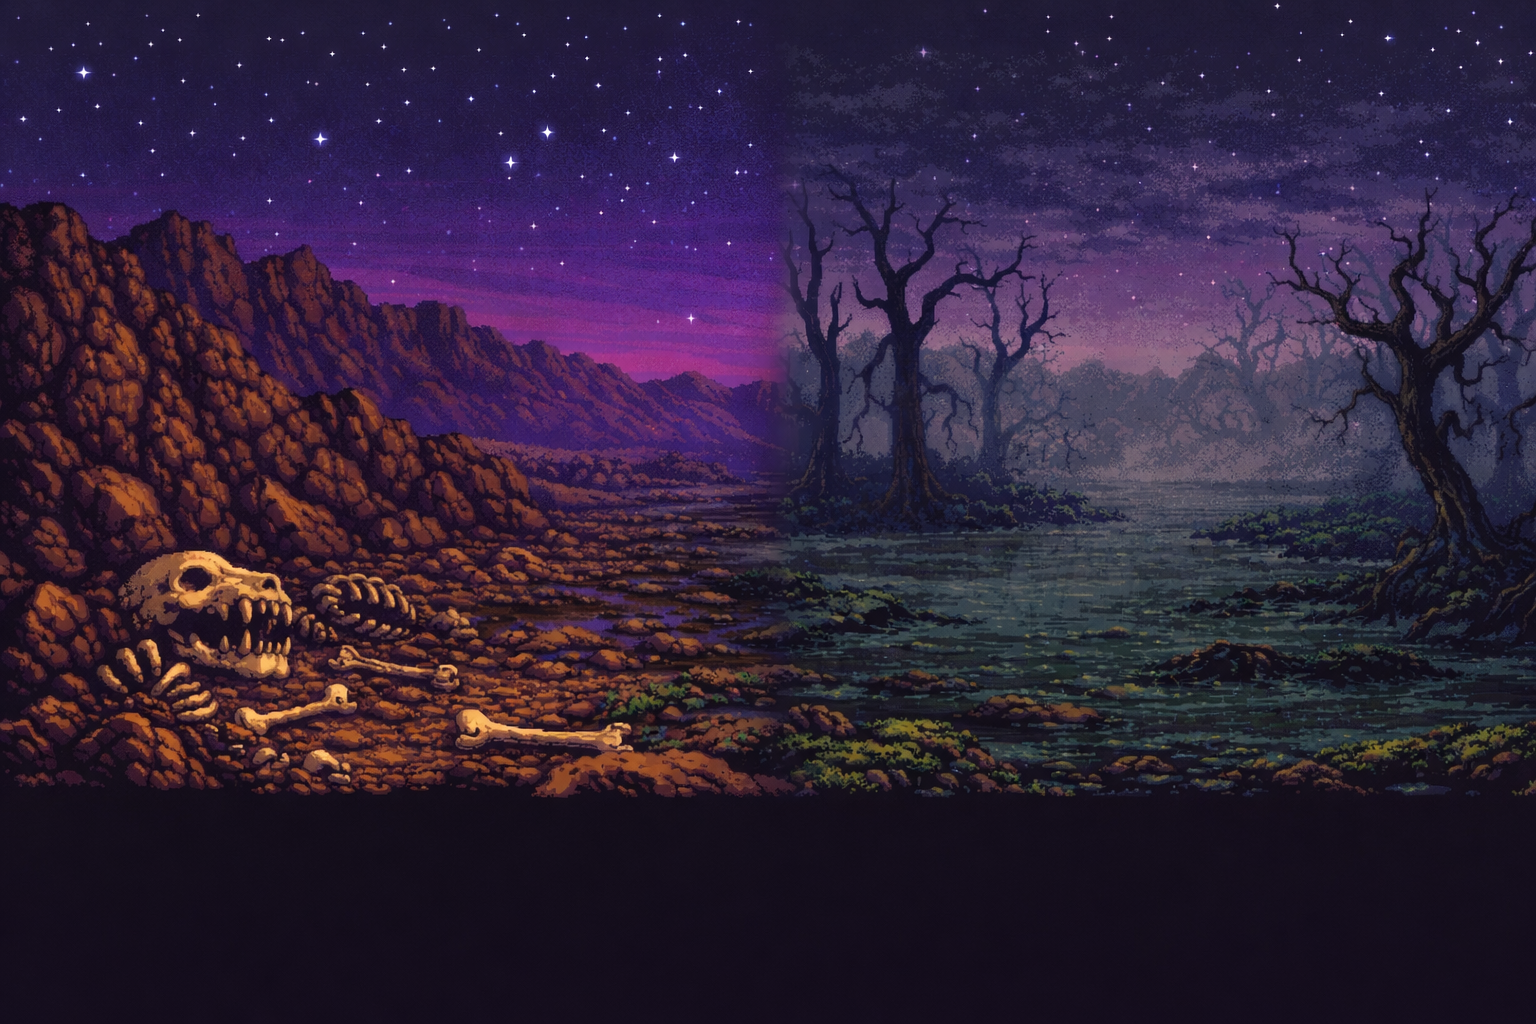
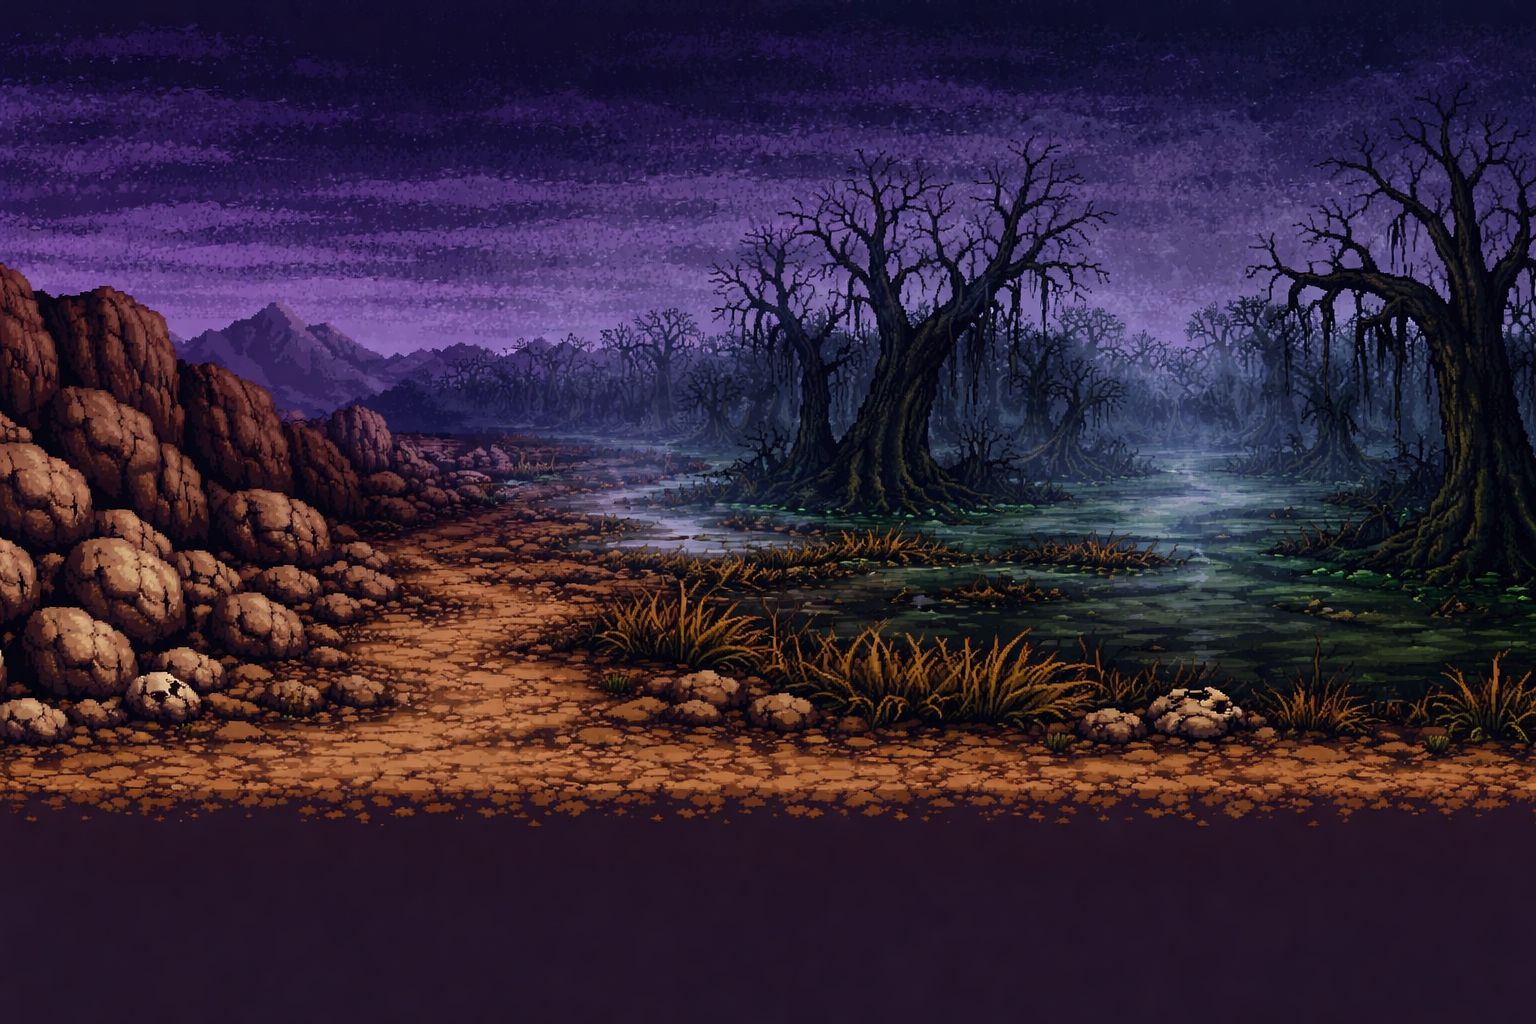
Hercules

diff --git a/public/hercules_12_labors.html b/public/hercules_12_labors.html
@@ -1444,6 +1444,7 @@ function showApp(){
   buildTeacherUnlockGrid();
   loadYTAPI();
   loadHercSprite();
+  loadPanoramaImages();
   initCanvas();
 
   // Show the current stop if we have one
@@ -1596,34 +1597,47 @@ function drawStaticScene(stopIdx){
   const W = canvas.width, H = canvas.height;
   if(!W || !H) return;
 
-  const sc = SCENE_COLORS[stopIdx] || SCENE_COLORS[0];
+  ctx.imageSmoothingEnabled = false;
 
-  // Sky gradient
-  const skyGrad = ctx.createLinearGradient(0, 0, 0, H * 0.65);
-  skyGrad.addColorStop(0, sc.sky1);
-  skyGrad.addColorStop(1, sc.sky2);
-  ctx.fillStyle = skyGrad;
-  ctx.fillRect(0, 0, W, H * 0.65);
-
-  // Stars (for darker skies)
-  for(let i = 0; i < 40; i++){
-    const brightness = 0.2 + (i % 5) * 0.1;
-    ctx.fillStyle = `rgba(255,255,255,${brightness})`;
-    const sx = ((i * 97 + 13 * i * i) % 1000) / 1000 * W;
-    const sy = ((i * 73 + 7 * i * i) % 1000) / 1000 * (H * 0.5);
-    ctx.fillRect(sx, sy, (i % 7 === 0 ? 2 : 1), (i % 7 === 0 ? 2 : 1));
+  // Try to show panorama background
+  // Stop 0: left side of panorama 0 (departure scene)
+  // Stop N>0: right side of panorama N-1 (arrival scene)
+  let panoImg = null;
+  let showRightSide = false;
+  if(stopIdx === 0){
+    const key = PANO_KEYS[0];
+    const img = PANO_IMAGES[key];
+    if(img && img.complete && img.naturalWidth > 0){ panoImg = img; showRightSide = false; }
+  } else if(stopIdx > 0 && stopIdx <= PANO_KEYS.length){
+    const key = PANO_KEYS[stopIdx - 1];
+    const img = PANO_IMAGES[key];
+    if(img && img.complete && img.naturalWidth > 0){ panoImg = img; showRightSide = true; }
   }
 
-  // Ground
-  ctx.fillStyle = sc.ground;
-  ctx.fillRect(0, H * 0.65, W, H * 0.35);
-
-  // Ground texture
-  ctx.fillStyle = 'rgba(0,0,0,0.15)';
-  for(let i = 0; i < 30; i++){
-    const gx = ((i * 53 + 17) % 100) / 100 * W;
-    const gy = H * 0.65 + ((i * 31 + 7) % 100) / 100 * H * 0.3;
-    ctx.fillRect(gx, gy, 3 + (i % 4), 1);
+  if(panoImg){
+    // Scale panorama to fill canvas height, scroll to show left or right side
+    const scale = H / panoImg.naturalHeight;
+    const scaledW = panoImg.naturalWidth * scale;
+    const scrollX = showRightSide ? Math.max(0, scaledW - W) : 0;
+    ctx.drawImage(panoImg, -scrollX, 0, scaledW, H);
+  } else {
+    // Fallback: procedural scene
+    const sc = SCENE_COLORS[stopIdx] || SCENE_COLORS[0];
+    const skyGrad = ctx.createLinearGradient(0, 0, 0, H * 0.65);
+    skyGrad.addColorStop(0, sc.sky1);
+    skyGrad.addColorStop(1, sc.sky2);
+    ctx.fillStyle = skyGrad;
+    ctx.fillRect(0, 0, W, H * 0.65);
+    for(let i = 0; i < 40; i++){
+      ctx.fillStyle = `rgba(255,255,255,${0.2 + (i % 5) * 0.1})`;
+      ctx.fillRect(((i*97+13*i*i)%1000)/1000*W, ((i*73+7*i*i)%1000)/1000*(H*0.5), (i%7===0?2:1), (i%7===0?2:1));
+    }
+    ctx.fillStyle = sc.ground;
+    ctx.fillRect(0, H * 0.65, W, H * 0.35);
+    ctx.fillStyle = 'rgba(0,0,0,0.15)';
+    for(let i = 0; i < 30; i++){
+      ctx.fillRect(((i*53+17)%100)/100*W, H*0.65+((i*31+7)%100)/100*H*0.3, 3+(i%4), 1);
+    }
   }
 
   // Hercules standing still
@@ -1651,6 +1665,31 @@ function loadHercSprite(){
   img.onload = () => { hercSpriteImg = img; };
   img.onerror = () => { console.warn('Hercules sprite failed to load — using fallback'); };
   img.src = HERC_SPRITE_URL;
+}
+
+// ═══════════════════════════════════════════════════
+// PANORAMA BACKGROUND IMAGES
+// ═══════════════════════════════════════════════════
+const PANO_BASE = '/images/heroic/hercules/transitions/';
+const PANO_KEYS = [
+  '1_oracle_to_cave',
+  '2_cave_to_swamp',
+  '3_swamp_to_fields',
+  '4_fields_to_coast',
+  '5_coast_to_desert',
+  '6_desert_to_underworld',
+  '7_underworld_to_olympus'
+];
+const PANO_IMAGES = {};
+
+function loadPanoramaImages(){
+  PANO_KEYS.forEach(key => {
+    const img = new Image();
+    img.onload = () => { console.log('🖼 Panorama loaded: ' + key); };
+    img.onerror = () => { PANO_IMAGES[key] = null; console.warn('Panorama failed: ' + key); };
+    img.src = PANO_BASE + key + '.png';
+    PANO_IMAGES[key] = img;
+  });
 }
 
 function processHercSprite(){
@@ -1756,58 +1795,67 @@ function runTransitionFrame(){
   }
 
   const p = transitionState.progress;
-  const fromSc = SCENE_COLORS[transitionState.fromIdx] || SCENE_COLORS[0];
-  const toSc = SCENE_COLORS[transitionState.toIdx] || SCENE_COLORS[0];
 
-  // Interpolate colors
-  function lerpColor(c1, c2, t){
-    const h = s => parseInt(s.slice(1), 16);
-    const v1 = h(c1), v2 = h(c2);
-    const r = Math.round(((v1 >> 16) & 0xff) * (1-t) + ((v2 >> 16) & 0xff) * t);
-    const g = Math.round(((v1 >> 8) & 0xff) * (1-t) + ((v2 >> 8) & 0xff) * t);
-    const b = Math.round((v1 & 0xff) * (1-t) + (v2 & 0xff) * t);
-    return '#' + ((1 << 24) + (r << 16) + (g << 8) + b).toString(16).slice(1);
-  }
+  // Try panorama image for this transition
+  // Transition from stop N to stop N+1 uses PANO_KEYS[N]
+  const panoKey = PANO_KEYS[transitionState.fromIdx];
+  const panoImg = panoKey ? PANO_IMAGES[panoKey] : null;
 
-  const curSky1 = lerpColor(fromSc.sky1, toSc.sky1, p);
-  const curSky2 = lerpColor(fromSc.sky2, toSc.sky2, p);
-  const curGround = lerpColor(fromSc.ground, toSc.ground, p);
+  if(panoImg && panoImg.complete && panoImg.naturalWidth > 0){
+    // ── PANORAMA SCROLL ──
+    ctx.imageSmoothingEnabled = false;
+    const scale = H / panoImg.naturalHeight;
+    const scaledW = Math.max(panoImg.naturalWidth * scale, W * 1.5);
+    const maxScroll = scaledW - W;
+    const scrollX = p * maxScroll;
+    ctx.drawImage(panoImg, -scrollX, 0, scaledW, H);
+  } else {
+    // ── FALLBACK: procedural color interpolation ──
+    const fromSc = SCENE_COLORS[transitionState.fromIdx] || SCENE_COLORS[0];
+    const toSc = SCENE_COLORS[transitionState.toIdx] || SCENE_COLORS[0];
 
-  // Sky gradient
-  const skyGrad = ctx.createLinearGradient(0, 0, 0, H * 0.65);
-  skyGrad.addColorStop(0, curSky1);
-  skyGrad.addColorStop(1, curSky2);
-  ctx.fillStyle = skyGrad;
-  ctx.fillRect(0, 0, W, H * 0.65);
+    function lerpColor(c1, c2, t){
+      const h = s => parseInt(s.slice(1), 16);
+      const v1 = h(c1), v2 = h(c2);
+      const r = Math.round(((v1 >> 16) & 0xff) * (1-t) + ((v2 >> 16) & 0xff) * t);
+      const g = Math.round(((v1 >> 8) & 0xff) * (1-t) + ((v2 >> 8) & 0xff) * t);
+      const b = Math.round((v1 & 0xff) * (1-t) + (v2 & 0xff) * t);
+      return '#' + ((1 << 24) + (r << 16) + (g << 8) + b).toString(16).slice(1);
+    }
 
-  // Stars
-  for(let i = 0; i < 40; i++){
-    ctx.fillStyle = `rgba(255,255,255,${0.15 + (i % 5) * 0.08})`;
-    const sx = (((i * 97 + 13 * i * i) % 1000) / 1000 * W - p * 60 + W * 2) % W;
-    const sy = ((i * 73 + 7 * i * i) % 1000) / 1000 * (H * 0.5);
-    ctx.fillRect(sx, sy, (i % 7 === 0 ? 2 : 1), (i % 7 === 0 ? 2 : 1));
-  }
+    const curSky1 = lerpColor(fromSc.sky1, toSc.sky1, p);
+    const curSky2 = lerpColor(fromSc.sky2, toSc.sky2, p);
+    const curGround = lerpColor(fromSc.ground, toSc.ground, p);
 
-  // Ground
-  ctx.fillStyle = curGround;
-  ctx.fillRect(0, H * 0.65, W, H * 0.35);
+    const skyGrad = ctx.createLinearGradient(0, 0, 0, H * 0.65);
+    skyGrad.addColorStop(0, curSky1);
+    skyGrad.addColorStop(1, curSky2);
+    ctx.fillStyle = skyGrad;
+    ctx.fillRect(0, 0, W, H * 0.65);
 
-  // Scrolling ground texture (parallax)
-  ctx.fillStyle = 'rgba(0,0,0,0.12)';
-  for(let i = 0; i < 40; i++){
-    const gx = (((i * 53 + 17) % 200) / 200 * W * 2 - p * W * 1.5 + W * 4) % W;
-    const gy = H * 0.65 + ((i * 31 + 7) % 100) / 100 * H * 0.28;
-    ctx.fillRect(gx, gy, 4 + (i % 5), 1);
-  }
+    for(let i = 0; i < 40; i++){
+      ctx.fillStyle = `rgba(255,255,255,${0.15 + (i % 5) * 0.08})`;
+      const sx = (((i * 97 + 13 * i * i) % 1000) / 1000 * W - p * 60 + W * 2) % W;
+      const sy = ((i * 73 + 7 * i * i) % 1000) / 1000 * (H * 0.5);
+      ctx.fillRect(sx, sy, (i % 7 === 0 ? 2 : 1), (i % 7 === 0 ? 2 : 1));
+    }
 
-  // Scrolling foreground rocks/trees (near ground, faster parallax)
-  ctx.fillStyle = 'rgba(0,0,0,0.2)';
-  for(let i = 0; i < 8; i++){
-    const rx = (((i * 137 + 29) % 400) / 400 * W * 3 - p * W * 2.5 + W * 6) % W;
-    const ry = H * 0.62 + (i % 3) * 4;
-    const rw = 4 + (i % 3) * 2;
-    const rh = 3 + (i % 2) * 2;
-    ctx.fillRect(rx, ry, rw, rh);
+    ctx.fillStyle = curGround;
+    ctx.fillRect(0, H * 0.65, W, H * 0.35);
+
+    ctx.fillStyle = 'rgba(0,0,0,0.12)';
+    for(let i = 0; i < 40; i++){
+      const gx = (((i * 53 + 17) % 200) / 200 * W * 2 - p * W * 1.5 + W * 4) % W;
+      const gy = H * 0.65 + ((i * 31 + 7) % 100) / 100 * H * 0.28;
+      ctx.fillRect(gx, gy, 4 + (i % 5), 1);
+    }
+
+    ctx.fillStyle = 'rgba(0,0,0,0.2)';
+    for(let i = 0; i < 8; i++){
+      const rx = (((i * 137 + 29) % 400) / 400 * W * 3 - p * W * 2.5 + W * 6) % W;
+      const ry = H * 0.62 + (i % 3) * 4;
+      ctx.fillRect(rx, ry, 4 + (i % 3) * 2, 3 + (i % 2) * 2);
+    }
   }
 
   // Hercules at fixed screen position (45% from left)
